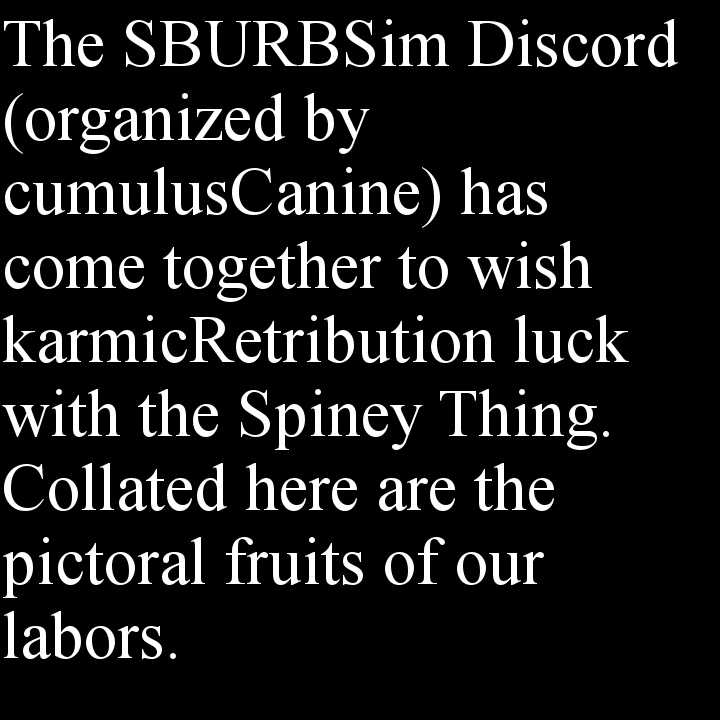
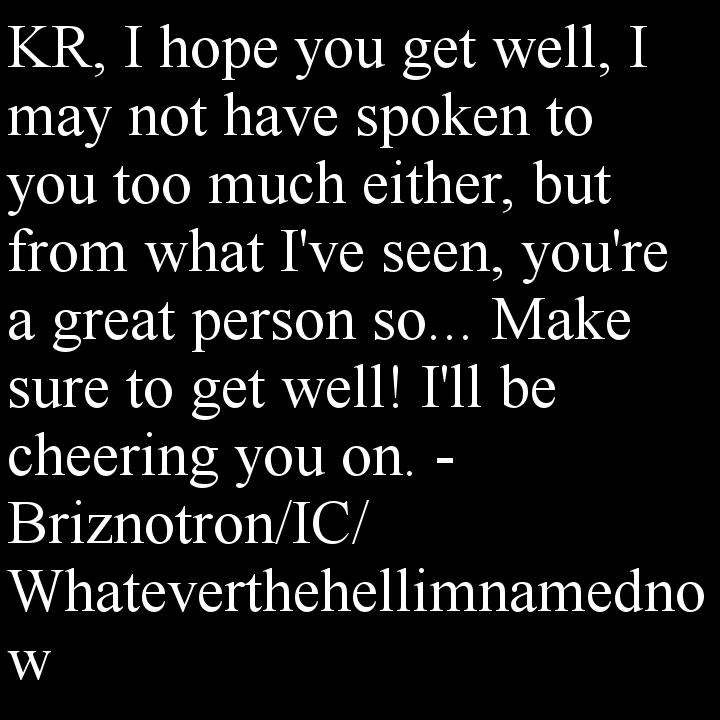
stuff

Changed region(s): [[0.0, 0.0306, 0.9778, 0.9472], [0.7639, 0.1222, 0.825, 0.1833]]

diff --git a/web/scripts/landOfRetributionAndSmiths.js b/web/scripts/landOfRetributionAndSmiths.js
@@ -1,5 +1,5 @@
 var screens = [];
-var maxState = 28; //this number MUST be even.
+var maxState = 36; //this number MUST be even.
 var imagesWaiting = 0;
 var imagesLoaded = 0;
 var targetImage = 0; //what could control this???
@@ -29,6 +29,7 @@ window.onload = function() {
 	makeScreens(256);
 	loadAllImages();
 	showMindButton(); //unlocked to beging with.
+	doTheMindyThing();
 
 }
 
@@ -556,6 +557,27 @@ function quip(state){
         ret = "star.eyes"
  	}else if(state == 1){
 		ret = "Shogun"
+ 	}else if(state == 29){
+		ret = "worldCourier"
+ 	}else if(state == 30){
+		ret = "star.eyes"
+ 	}else if(state == 31){
+		ret = "Shogun"
+
+ 	}else if(state == 32){
+		ret = "paradoxDragonPaci"
+
+ 	}else if(state == 33){
+		ret = "aspiringWatcher"
+
+ 	}else if(state == 34){
+		ret = "dystopicFuturism"
+
+ 	}else if(state == 35){
+		ret = "drawnRoughly"
+
+ 	}else if(state == 36){
+		ret = "Briznotron"
     }
     else{
     ret = "Get Well Soon, KR"
